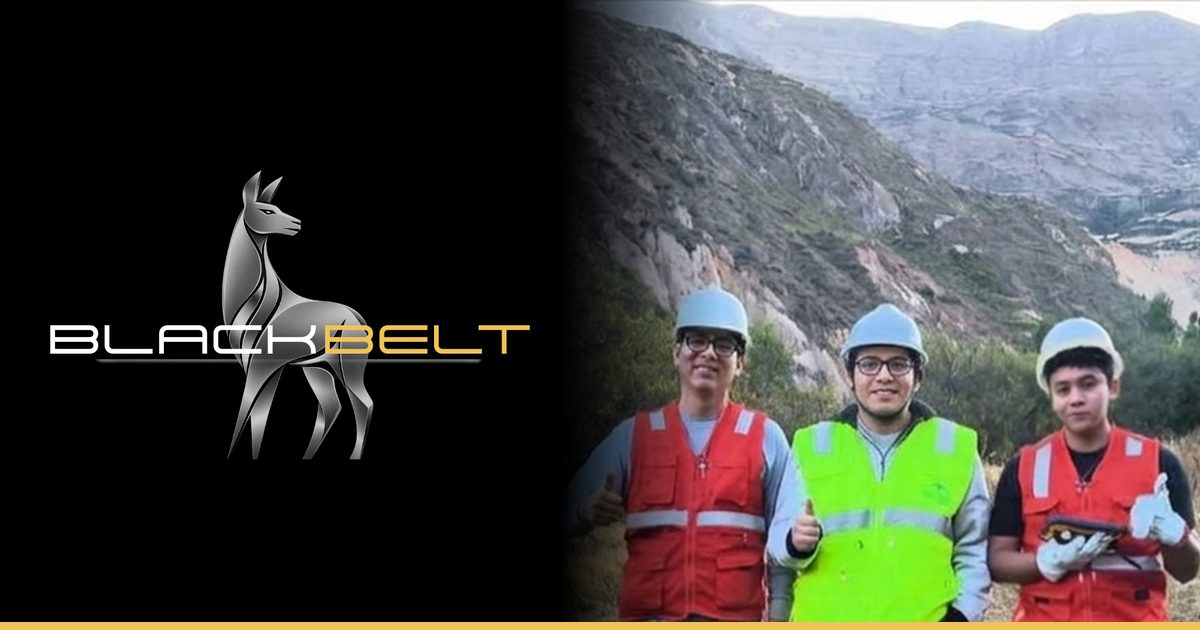
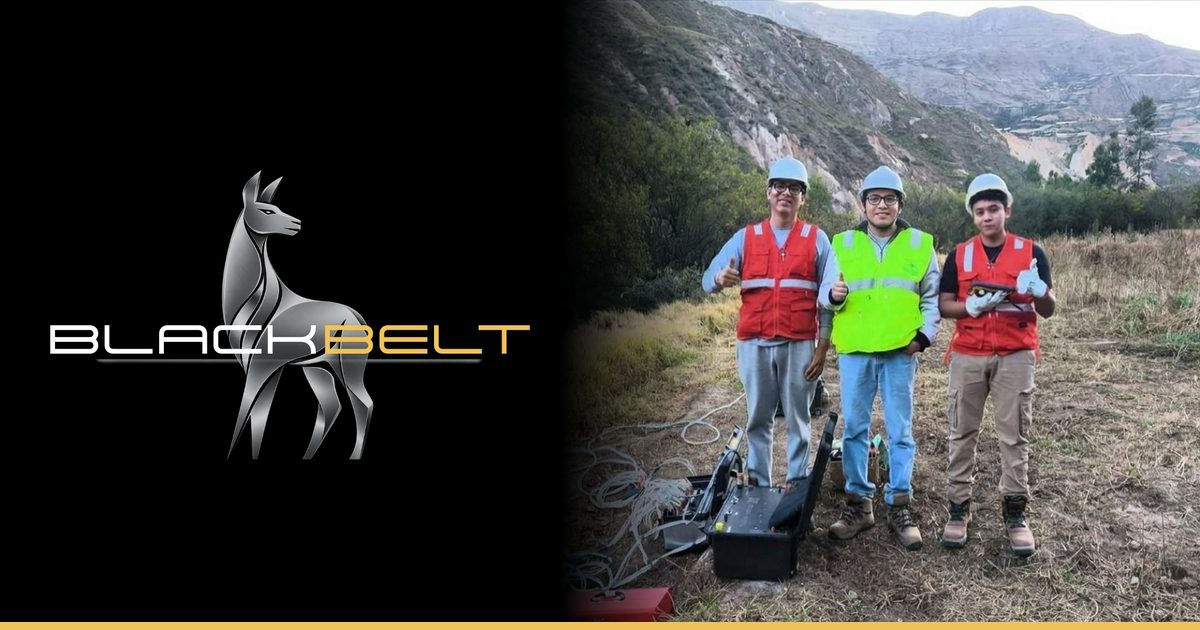
Foto mejorada del equipo en Huancavelica, completa

diff --git a/index.html b/index.html
@@ -17,18 +17,18 @@
 <meta property="og:title" content="Blackbelt Group | Soluciones para problemas reales">
 <meta property="og:description" content="Ingeniería, investigación, transformación digital y desarrollo empresarial. Sede en Lima, trabajamos en todo el Perú.">
 <meta property="og:url" content="https://blackbeltingenieria-droid.github.io/blackbelt-group-web/">
-<meta property="og:image" content="https://blackbeltingenieria-droid.github.io/blackbelt-group-web/assets/og-image.jpg?v=2">
+<meta property="og:image" content="https://blackbeltingenieria-droid.github.io/blackbelt-group-web/assets/og-image.jpg?v=3">
 <meta property="og:image:width" content="1200">
 <meta property="og:image:height" content="630">
 <meta property="og:image:alt" content="Logo de Blackbelt Group junto al equipo en una prueba de campo en Huancavelica">
 <meta name="twitter:card" content="summary_large_image">
 <meta name="twitter:title" content="Blackbelt Group | Soluciones para problemas reales">
 <meta name="twitter:description" content="Ingeniería, investigación, transformación digital y desarrollo empresarial. Sede en Lima, trabajamos en todo el Perú.">
-<meta name="twitter:image" content="https://blackbeltingenieria-droid.github.io/blackbelt-group-web/assets/og-image.jpg?v=2">
+<meta name="twitter:image" content="https://blackbeltingenieria-droid.github.io/blackbelt-group-web/assets/og-image.jpg?v=3">
 
 <link rel="icon" type="image/png" sizes="48x48" href="assets/favicon.png">
 <link rel="apple-touch-icon" href="assets/apple-touch-icon.png">
-<link rel="preload" as="image" href="assets/campo-equipo-huancavelica.jpg?v=2" fetchpriority="high">
+<link rel="preload" as="image" href="assets/geo-equipo-huancavelica.jpg?v=3" fetchpriority="high">
 <link rel="preconnect" href="https://fonts.googleapis.com">
 <link rel="preconnect" href="https://fonts.gstatic.com" crossorigin>
 <link rel="stylesheet" href="https://fonts.googleapis.com/css2?family=Barlow+Condensed:wght@500;600;700;800&family=Barlow:wght@400;500;600;700&display=swap">
@@ -46,7 +46,7 @@
       "description": "Grupo peruano con sede en Lima que trabaja en todo el Perú. Integra ingeniería, tecnología, investigación e innovación en cinco unidades de negocio: Ingeniería y Productividad; Tecnología y Transformación Digital; Investigación y Desarrollo; Ingeniería Especializada (por ejemplo, geofísica); y Emprendimiento y Desarrollo Empresarial, con apoyo a MYPEs y emprendedores.",
       "url": "https://blackbeltingenieria-droid.github.io/blackbelt-group-web/",
       "logo": "https://blackbeltingenieria-droid.github.io/blackbelt-group-web/assets/logo2-dark.png",
-      "image": "https://blackbeltingenieria-droid.github.io/blackbelt-group-web/assets/og-image.jpg?v=2",
+      "image": "https://blackbeltingenieria-droid.github.io/blackbelt-group-web/assets/og-image.jpg?v=3",
       "email": "blackbelt.ingenieria@gmail.com",
       "address": { "@type": "PostalAddress", "addressLocality": "Lima", "addressCountry": "PE" },
       "areaServed": { "@type": "Country", "name": "Perú" },
@@ -503,7 +503,7 @@ a{color:var(--gold);text-decoration:none}a:hover{color:var(--gold-hover)}
     </div>
     <div class="hero-media">
       <div class="frame" aria-hidden="true"></div>
-      <div class="pic"><img src="assets/campo-equipo-huancavelica.jpg?v=2" alt="Equipo de Blackbelt Group con cascos y chalecos durante una prueba de campo en Huancavelica, Perú" width="1200" height="440" fetchpriority="high"></div>
+      <div class="pic"><img src="assets/geo-equipo-huancavelica.jpg?v=3" alt="Equipo de Blackbelt Group con cascos y chalecos durante una prueba de campo en Huancavelica, Perú" width="1200" height="805" fetchpriority="high"></div>
       <div class="hero-caption">
         <svg class="ico" viewBox="0 0 24 24" aria-hidden="true"><path d="M12 22s7-7.6 7-13a7 7 0 0 0-14 0c0 5.4 7 13 7 13z"/><circle cx="12" cy="9" r="2.5"/></svg>
         <p><strong>Huancavelica, 2026.</strong> Nuestro equipo en una prueba de campo.</p>
@@ -680,7 +680,7 @@ a{color:var(--gold);text-decoration:none}a:hover{color:var(--gold-hover)}
           <p>El desarrollo parte de un diagnóstico del transporte urbano en la ciudad, con encuestas a pasajeros y conductores de motokar y un focus group.</p>
         </div>
       </article>
-      <article class="proj reveal" style="--c:#2E6B2A"><figure><img src="assets/campo-equipo-huancavelica.jpg?v=2" alt="Equipo de Blackbelt Group en una prueba de campo en Huancavelica" width="1200" height="440" loading="lazy" style="object-position:58% 50%"></figure><div class="proj-body"><span class="proj-area">Ingeniería especializada · Geofísica</span><h3>Pruebas de campo en Huancavelica y Jaén</h3><p>Estudios de tomografía eléctrica para caracterizar el subsuelo en Huancavelica y en Jaén (Cajamarca).</p></div></article>
+      <article class="proj reveal" style="--c:#2E6B2A"><figure><img src="assets/geo-equipo-huancavelica.jpg?v=3" alt="Equipo de Blackbelt Group en una prueba de campo en Huancavelica" width="1200" height="805" loading="lazy" style="object-position:58% 50%"></figure><div class="proj-body"><span class="proj-area">Ingeniería especializada · Geofísica</span><h3>Pruebas de campo en Huancavelica y Jaén</h3><p>Estudios de tomografía eléctrica para caracterizar el subsuelo en Huancavelica y en Jaén (Cajamarca).</p></div></article>
       <article class="proj reveal" style="--c:#4A2577;--d:.08s"><figure><img src="assets/proj-ambiental.jpg" alt="Equipo de medición de pH y muestras de agua en laboratorio" width="1000" height="553" loading="lazy"></figure><div class="proj-body"><span class="proj-area">Investigación ambiental</span><h3>Expedición ambiental</h3><p>Muestreo en campo y análisis de laboratorio para investigación ambiental.</p></div></article>
       <article class="proj reveal" style="--c:#4A2577;--d:.16s"><figure><img src="assets/amb-multiparametro.jpg" alt="Maletín con medidor multiparámetro y sondas para calidad de agua" width="1000" height="659" loading="lazy"></figure><div class="proj-body"><span class="proj-area">Ambiente y calidad</span><h3>Calidad de agua</h3><p>Medición de parámetros en campo y análisis de laboratorio, como pH y nitrógeno amoniacal.</p></div></article>
       <article class="proj reveal" style="--c:#4A2577;--d:.24s"><figure><img src="assets/amb-rio.jpg" alt="Torre de captación sobre un río de aguas oscuras" width="1000" height="562" loading="lazy"></figure><div class="proj-body"><span class="proj-area">Ambiente y calidad</span><h3>Muestreo en cuerpos de agua</h3><p>Toma de muestras en ríos y quebradas para evaluación ambiental.</p></div></article>
